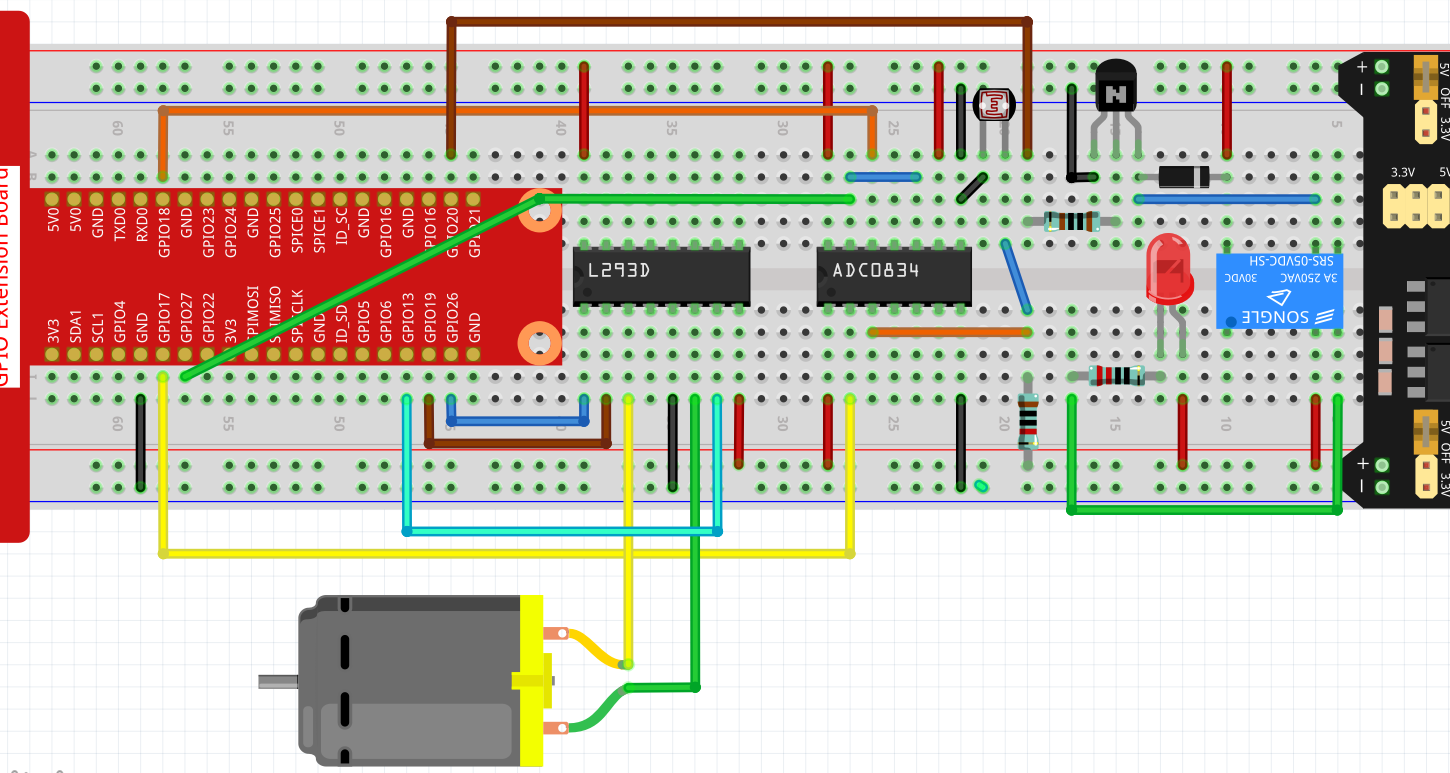
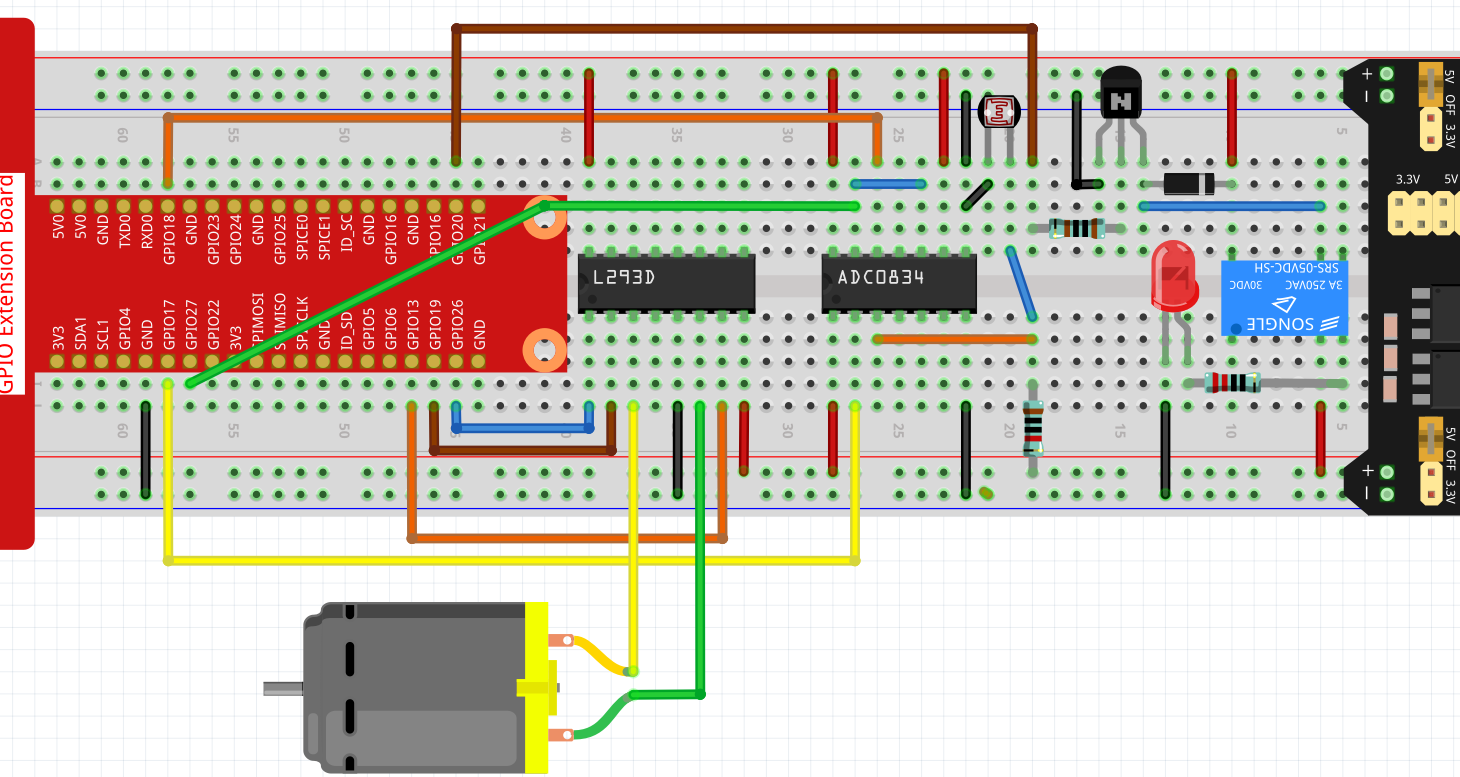
updates

diff --git a/iot/smart_curtain.py b/iot/smart_curtain.py
@@ -10,7 +10,7 @@ import RPi.GPIO as GPIO  # pylint: disable=F0401
 
 # Put your device token here. To get the token,
 # sign up at https://cloud4rpi.io and create a device.
-DEVICE_TOKEN = '__YOUR_DEVICE_TOKEN__'
+DEVICE_TOKEN = 'M1vyY81aq3TQLbnFuepUFhA5'
 
 # Constants
 RELAY_PIN = 20
@@ -24,7 +24,7 @@ POLL_INTERVAL = 0.5  # 500 ms
 GPIO.setmode(GPIO.BCM)
 GPIO.setup(RELAY_PIN, GPIO.OUT)
 ADC0834.setup()
-move = motor(26,19,13)
+move = motor(13,19,26)
 
 # Handler for the button or switch variable
 def relay_control(value=None):

diff --git a/docs/source/iot/learn_more_about_control.py.rst b/docs/source/iot/learn_more_about_control.py.rst
@@ -22,13 +22,13 @@ Cloud4RPi will set a device token for each one, and you need to fill in the vari
 
 ``variables`` is a 2-dimensional dictionary, and the value corresponding to each of its keys is also a dictionary.
 
-The keys of the ``variables`` dictionary are \'Room Temp\', \'LED On\', \'CPU Temp\', \'STATUS\', \'Location\', which are all data displayed on the Control Panel's widgets.
+The keys of the ``variables`` dictionary are ``'Room Temp'``, ``'LED On'``, ``'CPU Temp'``, ``'STATUS'``, ``'Location'``, which are all data displayed on the Control Panel's widgets.
     
-The value of each key in the ``variables`` dictionary is also a dictionary, and the keys of these dictionaries are the same, where the value of the \'bind\' key is a function that can return the transferred content, and the \'type\' is the data type of the transferred content (\'numeric\' is a numeric type, \'string\' is a string type, \'bool\' is a boolean type, and \'location\' is a list containing two dictionaries).
+The value of each key in the ``variables`` dictionary is also a dictionary, and the keys of these dictionaries are the same, where the value of the ``'bind'`` key is a function that can return the transferred content, and the ``'type'`` is the data type of the transferred content (``'numeric'`` is a numeric type, ``'string'`` is a string type, ``'bool'`` is a boolean type, and ``'location'`` is a list containing two dictionaries).
 
-Through the analysis of the ``variables`` dictionary, we can know that Cloud4RPi will read the keys of the ``variables`` dictionary and display the value corresponding to the key in the Control Panel. Obviously we cannot change the keys of the ``variables`` dictionary, but we can change the value in the key (the value of the \'bind\' dictionary) to let the widgets display the content we want.
+Through the analysis of the ``variables`` dictionary, we can know that Cloud4RPi will read the keys of the ``variables`` dictionary and display the value corresponding to the key in the Control Panel. Obviously we cannot change the keys of the ``variables`` dictionary, but we can change the value in the key (the value of the ``'bind'`` dictionary) to let the widgets display the content we want.
 
-For example, if we want to send humidity values to Cloud4RPi, we cannot add a new key to the ``variables`` dictionary, but we can borrow a key, such as the \'Room Temp\' key, and then write the function that returns the humidity value in the corresponding \'bind\' key.
+For example, if we want to send humidity values to Cloud4RPi, we cannot add a new key to the ``variables`` dictionary, but we can borrow a key, such as the ``'Room Temp'`` key, and then write the function that returns the humidity value in the corresponding ``'bind'`` key.
 
 .. code-block:: python
 
@@ -55,7 +55,7 @@ For example, if we want to send humidity values to Cloud4RPi, we cannot add a ne
             'bind': get_location
         }
 
-The vdiagnostics stores information about the Raspberry Pi and is used to verify and prevent misconnections.
+The ``vdiagnostics`` stores information about the Raspberry Pi and is used to verify and prevent misconnections.
 
 .. code-block:: python
 

diff --git a/docs/source/processing/draw_a_matchmaker.rst b/docs/source/processing/draw_a_matchmaker.rst
@@ -8,14 +8,9 @@ The Message Area is used for one line messages, and the Console is used for more
 
 Let's get familiar with the usage of Processing and draw a matchmaker.
 
-Copy the following code to Processing and run it. A new display window will appear and a cheering matchmaker will be drawn.
+**Sketch**
 
-.. warning:: 
-
-    If you run it and the message area turns red and reports some errors, then there is something wrong with the code. Make sure you copy the sample code exactly: numbers should be enclosed in parentheses, with commas between each number, and lines should end with semicolons.
-
-
-**Code**
+Copy the sketch below into Processing and run it. A new display window will appear and a cheering matchmaker will be drawn.
 
 .. code-block:: arduino
 
@@ -31,10 +26,16 @@ Copy the following code to Processing and run it. A new display window will appe
 
 .. image:: img/draw_one1.png
 
+.. note:: 
+
+    If you run it and the message area turns red and reports some errors, then there is something wrong with the sketch. Make sure you copy the sample sketch exactly: numbers should be enclosed in parentheses, with commas between each number, and lines should end with semicolons.
+
+
 **How it works?**
 
-The key here is to realize that a computer screen can be treated as a square of paper.
-Each pixel of the screen is a coordinate (X and Y) that determines the position of a point in space. The origin of the coordinate system for a pixel in a computer window (0,0) is in the upper left corner, the positive direction of the X-axis is horizontally to the right, and the positive direction of the Y-axis is vertically down.
+The key here is to realize that the display window can be treated as a square of paper.
+
+Each pixel of the display window is a coordinate (x,y) that determines the position of a point in space. The origin (0,0) of the coordinates is in the upper left corner, the positive direction of the X-axis is horizontally to the right, and the positive direction of the Y-axis is vertically down.
 
 What we have to do is to specify what shape and color should appear at these pixel coordinates.
 
@@ -47,7 +48,7 @@ For example, draw a rectangle of width 20 and height 60 with coordinates (100,12
 
 .. image:: img/draw_one_coodinate.png
 
-Once we understand the relationship between the drawing board and the axes, this code is not difficult for us, we just need to understand some simple graphic drawing statements.
+Once we understand the relationship between the display window and the axes, this sketch is not difficult for us, we just need to understand some simple graphic drawing statements.
 
     * ``size(width, height)``: Defines the dimension of the display window width and height in units of pixels.
     * ``background(red, green, blue)``: Set the background color of the display window.

diff --git a/docs/source/iot/quick_guide_on_cloud4RPi.rst b/docs/source/iot/quick_guide_on_cloud4RPi.rst
@@ -1,4 +1,4 @@
-Quick Guide about Cloud4RPi
+Quick Guide on Cloud4RPi
 ================================
 
 Install Cloud4RPi in Your Raspberry Pi 
@@ -39,7 +39,7 @@ Before using it, you need to register and log in to your Cloud4RPi account.
 .. image:: img/cloud2.png
   :align: center
 
-Once logged in, you should see two buttons at the top of Cloud4RPi's webpage, **Devices** to display the device connections and **Control Panels** to display the information received or sent from the Raspberry Pi on the webpage.
+Once logged in, you should see two buttons at the top of Cloud4RPi, **Devices** to display the device connections and **Control Panels** to display the information received or sent from the Raspberry Pi on the webpage.
 
 .. image:: img/cloud3.png
   :align: center
@@ -47,7 +47,7 @@ Once logged in, you should see two buttons at the top of Cloud4RPi's webpage, **
 Connect Your Raspberry Pi to Cloud4RPi
 ----------------------------------------
 
-After logging in, click the **Devices** option above, and then click **New Device**.
+After logging in, click the **Devices** option, and then click **New Device**.
 
 
 .. image:: img/cloud4.png
@@ -58,14 +58,14 @@ Give the new device a name, and copy the current **Device token** to the clipboa
 .. image:: img/cloud5.png
   :align: center
 
-Open the terminal of the Raspberry Pi and download the test examples provided by Cloud4RPi to your Raspberry Pi.
+Open the terminal of the Raspberry Pi and download the test examples provided by Cloud4RPi.
 
 .. code-block:: shell
 
   cd /home/pi
   git clone https://github.com/cloud4rpi/cloud4rpi-raspberrypi-python.git
 
-Use a text editor such as Nano to modify the content of the control.py file.
+Use a text editor such as Nano to modify the content of the ``control.py`` file.
 
 .. code-block:: shell
 
@@ -78,7 +78,7 @@ Find the following line of code.
 
   DEVICE_TOKEN = '__YOUR_DEVICE_TOKEN__'
 
-Replace __YOUR_DEVICE_TOKEN__ with the Device token copied from the Cloud4RPi server. Press Ctrl + X to complete the modification.
+Replace ``__YOUR_DEVICE_TOKEN__`` with the **Device token** copied from the Cloud4RPi. Press ``Ctrl + X`` to complete the modification.
 
 .. code-block:: python
 
@@ -104,7 +104,7 @@ After entering **Control Panels**, click the **New Control Panel** button.
 
 .. note::
 
-  Always run the control.py file before using the Control Panel.
+  Always run the ``control.py`` file before using the Control Panel.
 
 .. image:: img/cloud7.png
   :align: center

diff --git a/docs/source/iot/temperature_and_humidity_acquisition.rst b/docs/source/iot/temperature_and_humidity_acquisition.rst
@@ -30,20 +30,20 @@ Run the code.
 
     sudo python3 temperature_and_humidity_acquisition.py
 
-Go to Cloud4RPi, add a new Control Panels named project1, and click **Add Widget**.
+Go to Cloud4RPi, add a new Control Panel named project1, and click **Add Widget**.
 
-.. image:: img/Tem1.png
+.. image:: img/tem1.png
   :align: center
 
 Select a **Chart** widget with both **Room Temp** and **CPU Temp** as the variables to be displayed.
 
 
-.. image:: img/Tem2.png
+.. image:: img/tem2.png
   :align: center
 
 Once added, you will see the temperature (Room Temp) and humidity (CPU Temp) curves over time, and you can adjust the display window by clicking on the options at the bottom right.
 
-.. image:: img/Tem3.png
+.. image:: img/tem3.png
   :align: center
 
 Code Explanation
@@ -94,6 +94,6 @@ The humidity (``result[0]``) is obtained by this function, and the function will
         },
     }
 
-The temperature is stored in the \'bind\' of the \'Room Temp\' key, and the humidity is stored in the \'bind\' of the \'CPU Temp\' key. When Cloud4RPi receives the ``variables`` dictionary, it will convert it into a JavaScript object that can be recognized by the web page.
+The temperature is stored in the ``'bind'`` of the ``'Room Temp'`` key, and the humidity is stored in the ``'bind'`` of the ``'CPU Temp'`` key. When Cloud4RPi receives the ``variables`` dictionary, it will convert it into a JavaScript object that can be recognized by the web page.
 
 

diff --git a/docs/source/iot/smart_light.rst b/docs/source/iot/smart_light.rst
@@ -30,7 +30,7 @@ Run the code.
 
     sudo python3 smart_light.py
 
-Go to Cloud4RPi, add a new Control Panels named project3, and click **Add Widget** to add a **Slider** widget.
+Go to Cloud4RPi, add a new Control Panel named project3, and click **Add Widget** to add a **Slider** widget.
 
 .. image:: img/led2.png
     :align: center
@@ -48,7 +48,7 @@ Code Explanation
     led_val = GPIO.PWM(LED_PIN, 2000)
     led_val.start(0)
 
-Call the ``GPIO.PWM()`` function to define ``LED_PIN`` as PWM pins and set the frequency of PWM pins to 2000Hz, then Use the ``start()`` function to set the initial duty cycle to 0.
+Call the ``GPIO.PWM()`` function to define ``LED_PIN`` as PWM pin and set the frequency of PWM pin to 2000Hz, then use the ``start()`` function to set the initial duty cycle to 0.
 
 .. code-block:: python
 
@@ -66,5 +66,5 @@ The value sent by Slider widget to Raspberry Pi is used as PWM duty cycle to cha
         },
     }
 
-By setting the value of the \'value\' key, we can set the initial value of the Slider widget, then always read the value of the \'value\' key and send the current level of ``LED_PIN`` (the value returned by the function ``relay_control()``) to Cloud4RPi.
+By setting the value of the ``'value'`` key, we can set the initial value of the Slider widget, then always read the value of the ``'value'`` key and send the current level of ``LED_PIN`` (the value returned by the function ``led_control``) to Cloud4RPi.
 

diff --git a/docs/source/iot/remote_switch.rst b/docs/source/iot/remote_switch.rst
@@ -30,7 +30,7 @@ Run the code.
 
     sudo python3 remote_switch.py
 
-Go to Cloud4RPi, add a new Control Panels named project2, and click **Add Widget** to add a **Switch** widget.
+Go to Cloud4RPi, add a new Control Panel named project2, and click **Add Widget** to add a **Switch** widget.
 
 .. image:: img/relay2.png
     :align: center
@@ -47,14 +47,14 @@ Code Explanation
 
     RELAY_PIN = 18
 
-Relay connected to GPIO18 of the T-expansion board
+Relay connected to GPIO18 of the T-expansion board.
 
 .. code-block:: python
 
     GPIO.setmode(GPIO.BCM)
     GPIO.setup(RELAY_PIN, GPIO.OUT)
 
-Set to BCM nomenclature and set RELAY_PIN to output.
+Set to BCM nomenclature and set ``RELAY_PIN`` to output.
 
 .. code-block:: python
 
@@ -78,7 +78,7 @@ This function controls the relay according to the ``value`` and returns the curr
         },
     }
 
-By setting the value of the \'value\' key, we can set the initial value of the Switch widget, then always read the value of the \'value\' key and send the current level of ``RELAY_PIN`` (the value returned by the function ``relay_control()``) to Cloud4RPi.
+By setting the value of the ``'value'`` key, we can set the initial value of the Switch widget, then always read the value of the ``'value'`` key and send the current level of ``RELAY_PIN`` (the value returned by the function ``relay_control()``) to Cloud4RPi.
 
 
 

diff --git a/docs/source/processing/play_with_processing.rst b/docs/source/processing/play_with_processing.rst
@@ -13,13 +13,7 @@ Processing is based on Java, but because program elements in Processing are fair
 
 The latest version of Processing can be downloaded at http://processing.org/download.
 
-An important goal for the project was to make this type of programming accessible to a wider audience. 
-For this reason, Processing is free to download, free to use, and open source. 
-But projects developed using the Processing environment and core libraries can be used for any purpose. 
-This model is identical to GCC, the GNU Compiler Collection. GCC and its associated libraries (e.g. libc) are open source under the GNU Public License (GPL), which stipulates that changes to the code must be made available. 
-However, programs created with GCC (examples too numerous to mention) are not themselves required to be open source.
-
-This text is adapted from the tutorial, `Processing Overview <https://processing.org/tutorials/overview/>`_ by Ben Fry and Casey Reas.
+This text is from the tutorial, `Processing Overview <https://processing.org/tutorials/overview/>`_.
 
 Install the Processing
 ------------------------------

diff --git a/docs/source/iot/smart_curtain.rst b/docs/source/iot/smart_curtain.rst
@@ -68,4 +68,4 @@ Read the value of channel CH0 (with photoresistor connected) of the ADC0834. If 
             'bind': getValue
         },
 
-Pass ``getValue()`` into the \'bind\' key as a callback function, so that the brightness value (the return value of the ``getValue()`` function) can be sent to the Text widget.
+Pass ``getValue()`` into the ``'bind'`` key as a callback function, so that the brightness value (the return value of the ``getValue()`` function) can be sent to the Text widget.
